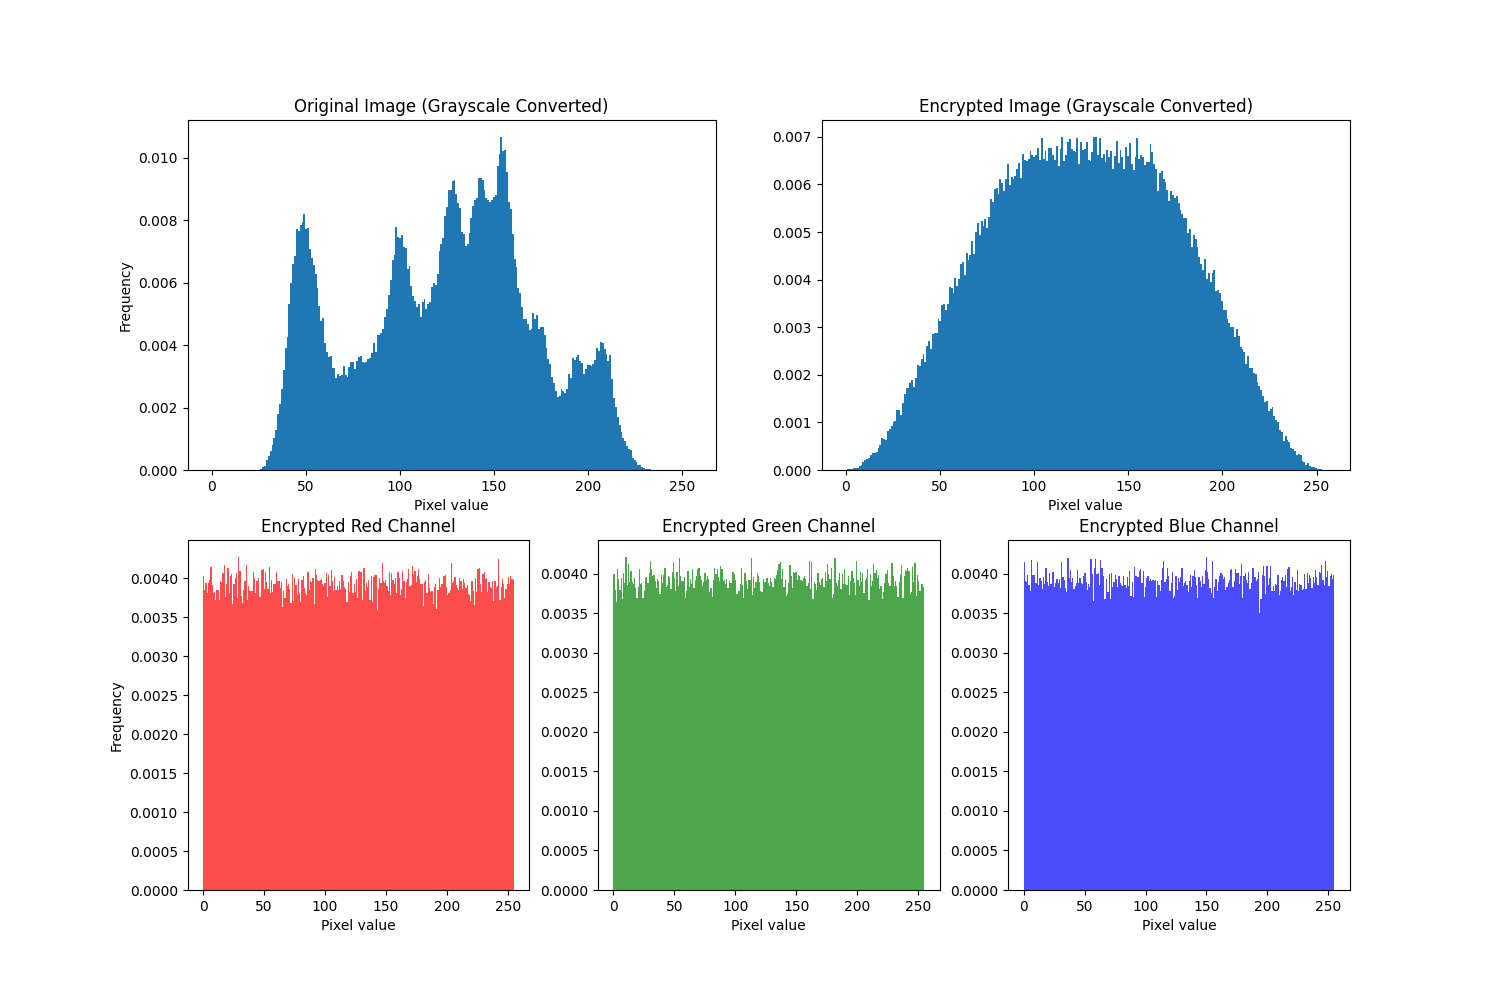
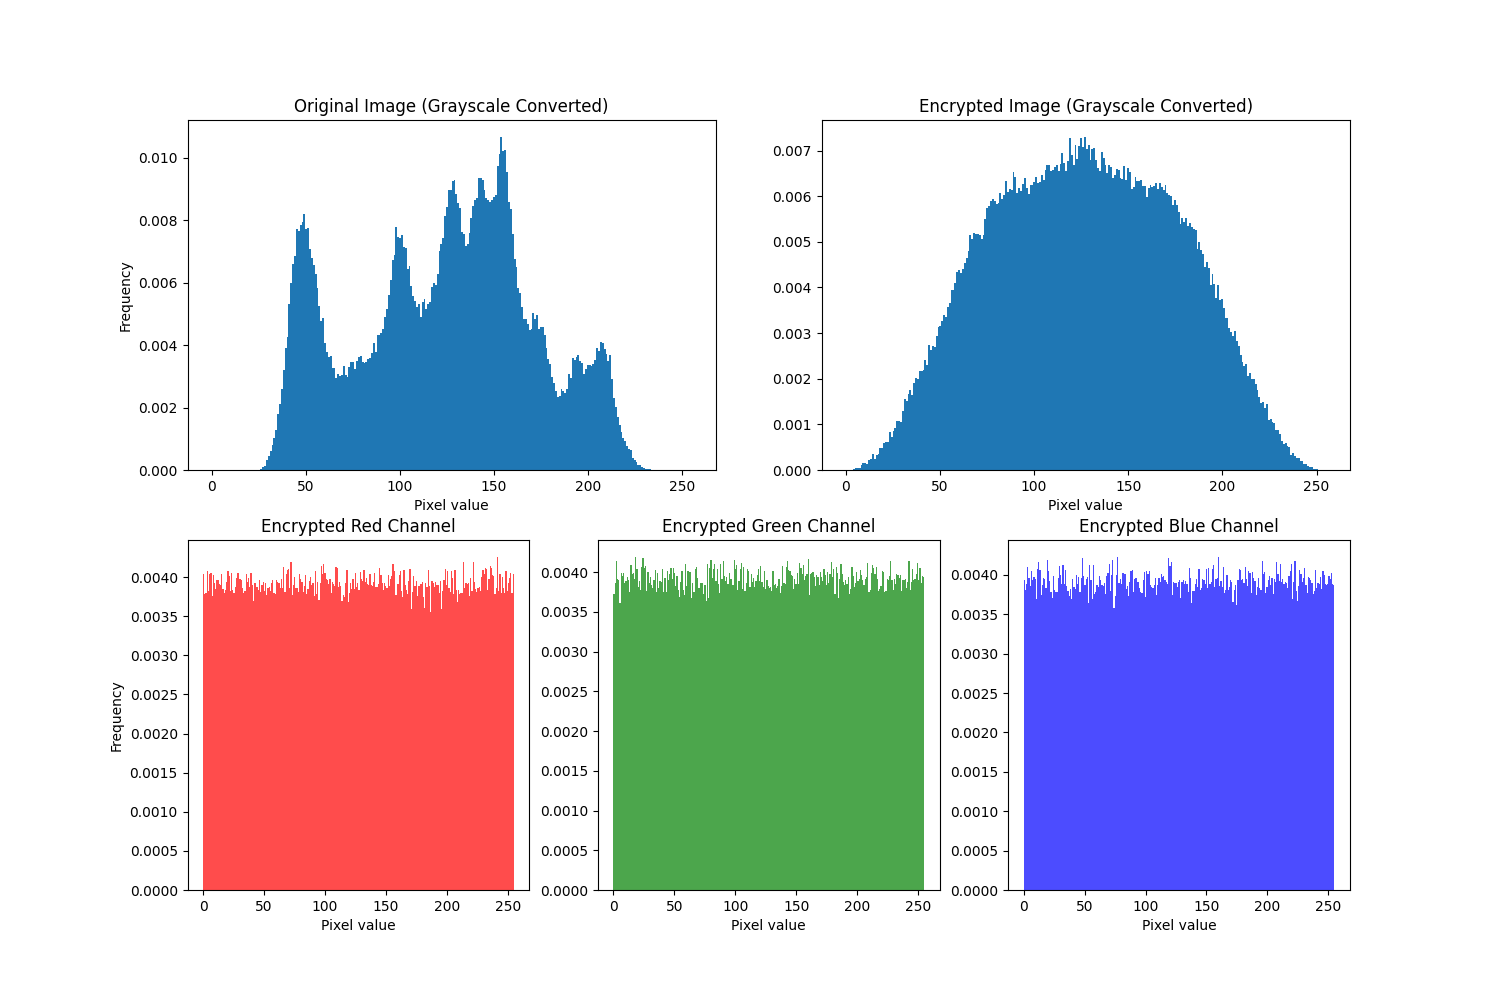
decryption fixed, uaci too low, code takes too long to execute

diff --git a/dna_encryption.py b/dna_encryption.py
@@ -5,7 +5,13 @@ import time
 import concurrent.futures
 from numba import jit
 import copy
-import threading  # Added for thread identification
+import threading
+import hashlib  # Added for checksums
+
+# ----------------------------
+# Configuration
+# ----------------------------
+DEBUG = False  # Set to False to disable debugging logs
 
 # ----------------------------
 # Diagnostic Logging
@@ -15,6 +21,29 @@ def log_with_timestamp(message):
     thread_id = threading.get_ident()
     timestamp = time.strftime("%H:%M:%S", time.localtime())
     print(f"[{timestamp}][Thread-{thread_id}] {message}")
+
+# ----------------------------
+# Debugging Utilities
+# ----------------------------
+def array_checksum(arr):
+    """Generate checksum for numpy array"""
+    return hashlib.md5(arr.tobytes()).hexdigest()
+
+def log_step(step_name, data, channel_name="", is_dna=False):
+    """Log processing step with checksum"""
+    if not DEBUG:
+        return ""
+    
+    if is_dna:
+        # Convert DNA matrix to string representation
+        data_str = ''.join(data.flatten())
+        checksum = hashlib.md5(data_str.encode()).hexdigest()
+        log_with_timestamp(f"[{step_name}][{channel_name}] DNA checksum: {checksum}")
+        return checksum
+    else:
+        checksum = array_checksum(data)
+        log_with_timestamp(f"[{step_name}][{channel_name}] Shape: {data.shape} Checksum: {checksum}")
+        return checksum
 
 # ----------------------------
 # Warm-up Numba functions
@@ -178,9 +207,22 @@ class ChaosKeys:
         # Enhanced diffusion parameters
         self.diff_x0 = 0.12345678
         self.diff_r = 3.999
+        
+    def checksum(self):
+        """Generate checksum for key parameters"""
+        if not DEBUG:
+            return ""
+        params = f"{self.rule_x0},{self.rule_r},{self.d1_x0},{self.d1_r},{self.d2_x0},{self.d2_r}," \
+                f"{self.singer_x0},{self.singer_mu},{self.quadratic_x0},{self.quadratic_c}," \
+                f"{self.logistic_x0},{self.logistic_r},{self.sine_x0},{self.sine_a},{self.pwl_x0},{self.pwl_p}," \
+                f"{self.diff_x0},{self.diff_r}"
+        return hashlib.md5(params.encode()).hexdigest()
 
+# ----------------------------
+# Corrected Mask Generation
+# ----------------------------
 def generate_dna_mask(height, width, x0, r):
-    """Generate DNA mask using logistic map"""
+    """Generate DNA mask using logistic map with consistent rule"""
     size = height * width * 4
     chaotic_seq = logistic_map(x0, r, size)
     int_mask = (chaotic_seq * 255).astype(np.uint8)
@@ -190,7 +232,7 @@ def generate_dna_mask(height, width, x0, r):
         for j in range(width):
             idx = (i * width + j) * 4
             bases = ''.join(
-                dna_encode_pixel(int_mask[idx + k], 0)
+                dna_encode_pixel(int_mask[idx + k], 0)  # Consistent rule 0
                 for k in range(4)
             )
             mask[i,j] = bases[:4]
@@ -210,9 +252,8 @@ def unscramble_block_numba(block, seq):
     return flat_block[inv_perm].reshape(block.shape)
 
 def enhanced_dna_xor(I2_dna, D1_dna, D2_dna):
+    """Simplified DNA-XOR without feedback for invertibility"""
     temp_dna = dna_xor_matrix(I2_dna, D1_dna)
-    feedback = np.roll(temp_dna, (1, 1), axis=(0, 1))
-    temp_dna = dna_xor_matrix(temp_dna, feedback)
     return dna_xor_matrix(temp_dna, D2_dna)
 
 def pixel_diffusion(matrix, keys):
@@ -242,13 +283,17 @@ def process_blocks(blocks, keys, encrypt=True):
         
         return [f.result() for f in futures]
 
-def process_channel(channel, keys, encrypt=True):
+def process_channel(channel, keys, encrypt=True, channel_name="Unknown"):
     m, n = channel.shape
     m_pad = (2 - m % 2) % 2
     n_pad = (2 - n % 2) % 2
     padded = np.pad(channel, ((0, m_pad), (0, n_pad)), 'reflect')
     M, N = padded.shape
     total_pixels = M * N
+    
+    if DEBUG:
+        log_step("START Channel", padded, channel_name)
+        log_with_timestamp(f"[KEYS][{channel_name}] Key checksum: {keys.checksum()}")
     
     if encrypt:
         # Step 2: Dynamic DNA encoding
@@ -260,15 +305,26 @@ def process_channel(channel, keys, encrypt=True):
             for j in range(N):
                 I2_dna[i,j] = dna_encode_pixel(padded[i,j], rule_indices[i*N + j])
         
+        if DEBUG:
+            log_step("Step2: DNA Encoding", I2_dna, channel_name, is_dna=True)
+        
         # Step 3: Enhanced DNA-XOR with avalanche effect
         D1_dna = generate_dna_mask(M, N, keys.d1_x0, keys.d1_r)
         D2_dna = generate_dna_mask(M, N, keys.d2_x0, keys.d2_r)
         I3_dna = enhanced_dna_xor(I2_dna, D1_dna, D2_dna)
         
+        if DEBUG:
+            log_step("Step3: DNA-XOR", I3_dna, channel_name, is_dna=True)
+            log_step("MASK D1", D1_dna, channel_name, is_dna=True)
+            log_step("MASK D2", D2_dna, channel_name, is_dna=True)
+        
         # Step 4: Convert to indices and reshape for blocks
         char_array = np.array([list(dna_str) for dna_str in I3_dna.flatten()])
         I4_int = np.vectorize({'A':0, 'T':1, 'C':2, 'G':3}.get)(char_array)
         I4_reshaped = I4_int.reshape(2*M, 2*N)
+        
+        if DEBUG:
+            log_step("Step4: DNA to Indices", I4_int, channel_name)
         
         # Step 5: Block scrambling (parallel)
         blocks = [
@@ -283,6 +339,9 @@ def process_channel(channel, keys, encrypt=True):
         top = np.hstack([scrambled_blocks[0], scrambled_blocks[1]])
         bottom = np.hstack([scrambled_blocks[2], scrambled_blocks[3]])
         I5_int = np.vstack([top, bottom])
+        
+        if DEBUG:
+            log_step("Step5: After Scrambling", I5_int, channel_name)
         
         # Step 6: Convert to DNA bases and repeat Step 3
         base_list = []
@@ -299,21 +358,28 @@ def process_channel(channel, keys, encrypt=True):
         # Repeat enhanced DNA-XOR
         temp_dna = enhanced_dna_xor(I5_dna, D1_dna, D2_dna)
         
+        if DEBUG:
+            log_step("Step6: After Second XOR", temp_dna, channel_name, is_dna=True)
+        
         # Step 7: Decode to image
         I7 = np.zeros((M, N), dtype=np.uint8)
         for i in range(M):
             for j in range(N):
-                I7[i,j] = dna_decode_pixel(temp_dna[i,j], 0)  # Rule 0 (Rule 1)
+                I7[i,j] = dna_decode_pixel(temp_dna[i,j], 0)
+        
+        if DEBUG:
+            log_step("Step7: After Decoding", I7, channel_name)
         
         # Remove padding
         result = I7[:m, :n]
         
-        # Add pixel-level diffusion
-        return pixel_diffusion(result, keys)
+        return result
     
     else:  # Decryption
         # Reverse pixel-level diffusion
         padded = pixel_diffusion(padded, keys)
+        if DEBUG:
+            log_step("Decrypt Step1: After Diffusion", padded, channel_name)
         
         # Reverse Step 7: Encode with fixed rule
         I7_dna = np.empty((M, N), dtype='U4')
@@ -321,12 +387,22 @@ def process_channel(channel, keys, encrypt=True):
             for j in range(N):
                 I7_dna[i,j] = dna_encode_pixel(padded[i,j], 0)  # Rule 0 (Rule 1)
         
+        if DEBUG:
+            log_step("Decrypt Step2: DNA Encoding", I7_dna, channel_name, is_dna=True)
+        
         # Reverse Step 6: Double DNA-XOR
         D1_dna = generate_dna_mask(M, N, keys.d1_x0, keys.d1_r)
         D2_dna = generate_dna_mask(M, N, keys.d2_x0, keys.d2_r)
         
+        if DEBUG:
+            log_step("Decrypt MASK D1", D1_dna, channel_name, is_dna=True)
+            log_step("Decrypt MASK D2", D2_dna, channel_name, is_dna=True)
+        
         temp_dna = dna_xor_matrix(I7_dna, D2_dna)
         I6_dna = dna_xor_matrix(temp_dna, D1_dna)
+        
+        if DEBUG:
+            log_step("Decrypt Step3: After DNA-XOR", I6_dna, channel_name, is_dna=True)
         
         # Prepare for block unscrambling
         char_list = []
@@ -335,6 +411,9 @@ def process_channel(channel, keys, encrypt=True):
         
         I5_int = np.vectorize({'A':0, 'T':1, 'C':2, 'G':3}.get)(np.array(char_list))
         I5_int = I5_int.reshape(2*M, 2*N)
+        
+        if DEBUG:
+            log_step("Decrypt Step4: DNA to Indices", I5_int, channel_name)
         
         # Reverse Step 5: Block unscrambling (parallel)
         blocks = [
@@ -350,6 +429,9 @@ def process_channel(channel, keys, encrypt=True):
         bottom = np.hstack([unscrambled_blocks[2], unscrambled_blocks[3]])
         I4_int = np.vstack([top, bottom])
         
+        if DEBUG:
+            log_step("Decrypt Step5: After Unscrambling", I4_int, channel_name)
+        
         # Reverse Step 4: Convert to DNA bases
         base_list = []
         for base_idx in I4_int.flatten():
@@ -362,9 +444,15 @@ def process_channel(channel, keys, encrypt=True):
         
         I3_dna = np.array(dna_strings).reshape(M, N)
         
+        if DEBUG:
+            log_step("Decrypt Step6: After Base Conversion", I3_dna, channel_name, is_dna=True)
+        
         # Reverse Step 3: Double DNA-XOR
         temp_dna = dna_xor_matrix(I3_dna, D2_dna)
         I2_dna = dna_xor_matrix(temp_dna, D1_dna)
+        
+        if DEBUG:
+            log_step("Decrypt Step7: After DNA-XOR", I2_dna, channel_name, is_dna=True)
         
         # Reverse Step 2: Dynamic DNA decoding
         rule_seq = logistic_map(keys.rule_x0, keys.rule_r, M*N)
@@ -375,15 +463,25 @@ def process_channel(channel, keys, encrypt=True):
             for j in range(N):
                 decrypted[i,j] = dna_decode_pixel(I2_dna[i,j], rule_indices[i*N + j])
         
+        if DEBUG:
+            log_step("Decrypt Step8: After Decoding", decrypted, channel_name)
+        
         # Remove padding
         decrypted = decrypted[:m, :n]
-        return pixel_diffusion(decrypted, keys)  # Diffusion LAST
+        result = pixel_diffusion(decrypted, keys)  # Diffusion LAST
+        
+        if DEBUG:
+            log_step("Decrypt Step9: After Diffusion", result, channel_name)
+        return result
 
 # ----------------------------
 # Fixed Multi-round Processing
 # ----------------------------
-def multi_round_process_channel(channel, keys, encrypt=True, rounds=2):
+def multi_round_process_channel(channel, keys, encrypt=True, rounds=2, channel_name="Unknown"):
     result = channel.copy()
+    
+    if DEBUG:
+        log_step("START Multi-round" if encrypt else "START Decrypt Multi-round", result, channel_name)
     
     # Create key modifications for each round
     round_keys = []
@@ -400,8 +498,21 @@ def multi_round_process_channel(channel, keys, encrypt=True, rounds=2):
     if not encrypt:
         round_keys.reverse()  # Reverse key order for decryption
     
-    for rk in round_keys:
-        result = process_channel(result, rk, encrypt)
+    for round_idx, rk in enumerate(round_keys):
+        if DEBUG:
+            log_with_timestamp(f"[{channel_name}] Round {round_idx+1}/{rounds} ({'encrypt' if encrypt else 'decrypt'})")
+            log_with_timestamp(f"[KEYS][{channel_name}] Round keys: {rk.checksum()}")
+        
+        result = process_channel(result, rk, encrypt, channel_name)
+
+        # ADD DIFFUSION STEP AFTER EACH ROUND
+        result = pixel_diffusion(result, rk)
+        
+        if DEBUG:
+            log_step(f"After Round {round_idx+1}", result, channel_name)
+    
+    if DEBUG:
+        log_step("END Multi-round" if encrypt else "END Decrypt Multi-round", result, channel_name)
     
     return result
 
@@ -413,7 +524,7 @@ def process_image_channel(channel, keys, encrypt=True, channel_name="Unknown"):
     start_time = time.time()
     log_with_timestamp(f"START processing {channel_name} channel ({'encrypt' if encrypt else 'decrypt'})")
     
-    result = multi_round_process_channel(channel, keys, encrypt)
+    result = multi_round_process_channel(channel, keys, encrypt, 1, channel_name)
     
     duration = time.time() - start_time
     log_with_timestamp(f"END processing {channel_name} channel ({'encrypt' if encrypt else 'decrypt'}) - took {duration:.2f}s")
@@ -433,6 +544,11 @@ def main(image_path):
     r, g, b = img.split()
     r_arr, g_arr, b_arr = np.array(r), np.array(g), np.array(b)
     
+    if DEBUG:
+        log_step("Original RED", r_arr, "RED")
+        log_step("Original GREEN", g_arr, "GREEN")
+        log_step("Original BLUE", b_arr, "BLUE")
+    
     # Encrypt
     encrypt_start = time.time()
     with concurrent.futures.ThreadPoolExecutor(max_workers=3) as executor:
@@ -448,6 +564,11 @@ def main(image_path):
         b_enc = future_b.result()
     
     encrypt_time = time.time() - encrypt_start
+    
+    if DEBUG:
+        log_step("Encrypted RED", r_enc, "RED")
+        log_step("Encrypted GREEN", g_enc, "GREEN")
+        log_step("Encrypted BLUE", b_enc, "BLUE")
     
     # Save encrypted
     Image.merge('RGB', (
@@ -471,6 +592,11 @@ def main(image_path):
         b_dec = future_b.result()
     
     decrypt_time = time.time() - decrypt_start
+    
+    if DEBUG:
+        log_step("Decrypted RED", r_dec, "RED")
+        log_step("Decrypted GREEN", g_dec, "GREEN")
+        log_step("Decrypted BLUE", b_dec, "BLUE")
     
     # Save decrypted
     Image.merge('RGB', (

diff --git a/image_analysis.py b/image_analysis.py
@@ -3,6 +3,7 @@ from PIL import Image
 import matplotlib.pyplot as plt
 from scipy.stats import pearsonr
 
+
 # === User-configurable paths ===
 # Enter the file paths for your images below
 original_path = 'images/lena.png'
